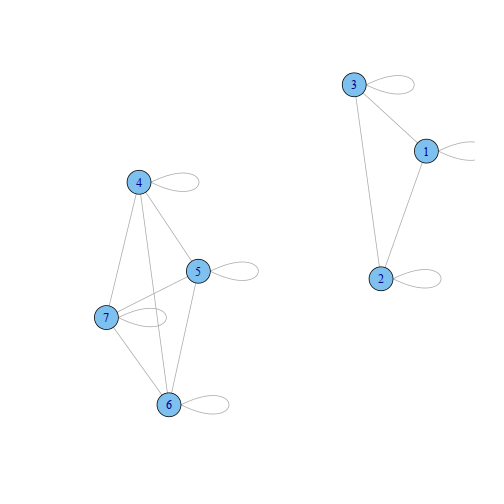
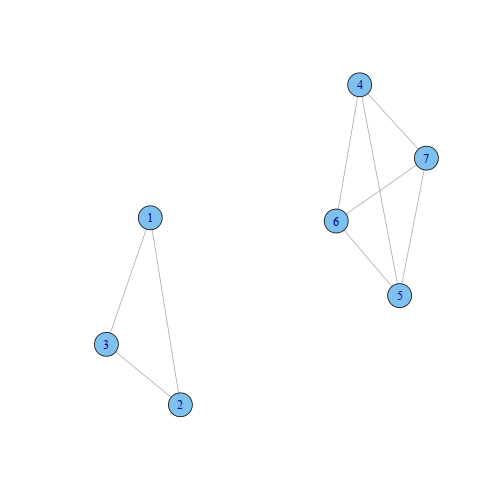
nicer plot

diff --git a/graph_theory/01-introduction/README.md b/graph_theory/01-introduction/README.md
@@ -108,6 +108,8 @@ library(igraph)
 x = matrix(0, 7, 7)
 x[0:3, 0:3] = 1
 x[4:7, 4:7] = 1
+diag(x) = 0
+
 plot(graph.adjacency(x, mode = "undirected"))
 ```
 
